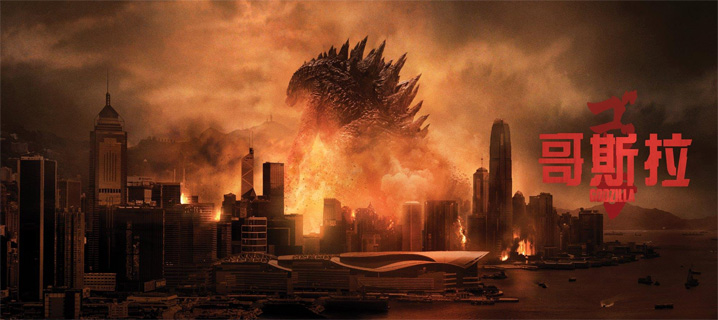
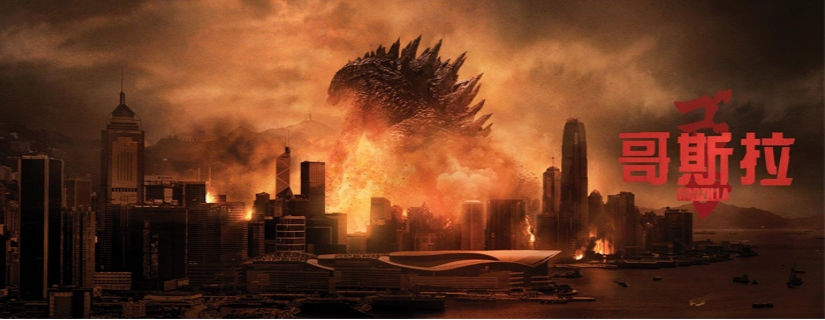
film push

diff --git a/film/index.html b/film/index.html
@@ -25,17 +25,17 @@ category:F00
 		  <!-- Wrapper for slides -->
 		  <div class="carousel-inner" role="listbox">
 		    <div class="item active">
-		      <img src="/resources/images/film/car_gesila.jpg" alt="哥斯拉"  style="margin-left: 54px;">
+		      <img src="/resources/images/film/car_gesila.jpg" alt="哥斯拉">
 		      <div class="carousel-caption">
 		      </div>
 		    </div>
 		    <div class="item">
-		      <img src="/resources/images/film/car_mingribianyuan.jpg" alt="明日边缘"  style="margin-left: 54px;">
+		      <img src="/resources/images/film/car_mingribianyuan.jpg" alt="明日边缘">
 		      <div class="carousel-caption">
 		      </div>
 		    </div>
 		    <div class="item">
-		      <img src="/resources/images/film/car_xiaoshidai3.jpg" alt="小时代3"  style="margin-left: 54px;">
+		      <img src="/resources/images/film/car_xiaoshidai3.jpg" alt="小时代3">
 		      <div class="carousel-caption">
 		      </div>
 		    </div>
@@ -43,11 +43,11 @@ category:F00
 
 		  <!-- Controls -->
 		  <a class="left carousel-control" href="#carousel-example-generic" role="button" data-slide="prev">
-		    <span class="glyphicon glyphicon-chevron-left" style="margin-left: -50px;"></span>
+		    <span class="glyphicon glyphicon-chevron-left"></span>
 		    <span class="sr-only">Previous</span>
 		  </a>
 		  <a class="right carousel-control" href="#carousel-example-generic" role="button" data-slide="next">
-		    <span class="glyphicon glyphicon-chevron-right" style="margin-right: -49px;"></span>
+		    <span class="glyphicon glyphicon-chevron-right"></span>
 		    <span class="sr-only">Next</span>
 		  </a>
 		</div>
